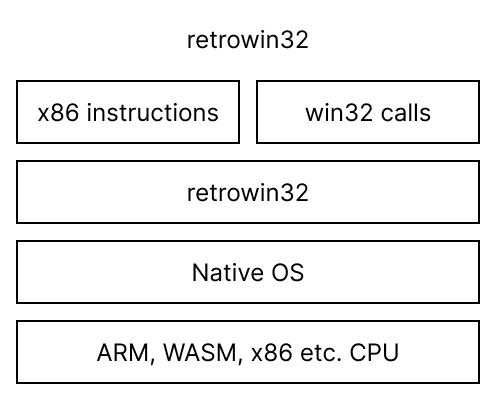
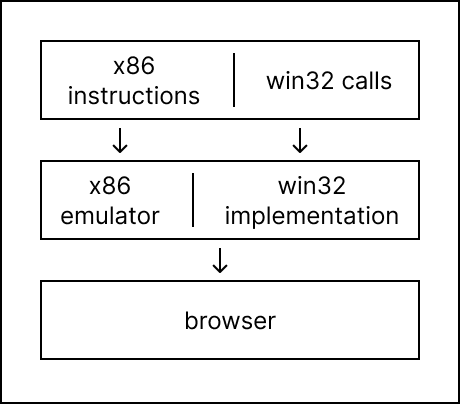
comparison: redo graphics, more text

Changed region(s): [[0.0, 0.0, 1.0, 1.0]]

diff --git a/doc/comparison.md b/doc/comparison.md
@@ -1,29 +1,53 @@
 # Comparison with similar systems
 
+To begin with, retrowin32 is relatively immature and cannot execute most
+programs.
+
+If you are just looking to Windows software, I recommend instead using:
+
+- on x86 hardware: [Wine](https://www.winehq.org/)
+- on non-x86 hardware: [qemu](https://www.qemu.org/)
+- in a browser: [v86](https://copy.sh/v86/) or
+  [Boxedwine](https://www.boxedwine.org/)
+
+## Architectural differences
+
 Executing a Windows .exe broadly
 [requires two components](https://neugierig.org/software/blog/2023/01/emulating-win32.html):
 executing x86 instructions and interpreting the Windows calls.
 
-To run it natively requires an x86 processor and the Windows OS:
+To run an exe natively requires both an x86 processor and the Windows OS:
 
-<img src='native.png' width='248' alt='Windows component stack'>
+<img src='native.png' width='230' alt='Windows component stack'>
 
 [Wine](https://www.winehq.org/) translates Windows calls onto a different OS,
 but still requires an x86 processor for the x86 instructions:
 
-<img src='wine.png' width='247' alt='WINE component stack'>
+<img src='wine.png' width='230' alt='wine component stack'>
 
-On non-x86 platforms you can pair Wine with a CPU emulator, as done in e.g.
-[Boxedwine](https://www.boxedwine.org/).
+On non-x86 platforms (including browsers),
+[Boxedwine](https://www.boxedwine.org/) combines Wine with a CPU emulator and
+implementation of the bits of Linux that Wine expects:
+
+<img src='boxedwine.png' width='230' alt='boxedwine component'>
 
 x86 emulators like [qemu](https://www.qemu.org/) and [v86](https://copy.sh/v86/)
-emulate an x86 processor, but at a level where it still requires you to run an
-OS within the emulator:
+emulate an x86 processor, but at a level where it still requires you to run the
+whole Windows OS within the emulator:
 
-<img src='qemu.png' width='248' alt='qemu component stack'>
+<img src='qemu.png' width='230' alt='qemu component stack'>
 
-This project, in contrast, aims to run a win32 executable directly, in a manner
-similar to how video game emulators work: by both emulating the executable and
-mapping its calls directly into local OS calls.
+Finally, retrowin32 aims to run a win32 executable directly, in a manner similar
+to how video game emulators work: by both emulating the executable and mapping
+its calls directly into local OS calls.
 
-<img src='retrowin32.png' width='248' alt='retrowin32 component stack'>
+<img src='retrowin32.png' width='230' alt='retrowin32 component stack'>
+
+Among the alternatives, retrowin32 is most similar to boxedwine. Note that while
+this drawing is visually shorter, it still encompasses most of the same
+complexity. The primary differences are:
+
+- the bulk of retrowin32's win32 implementation happens outside of the x86
+  emulator
+- by not using Wine, retrowin32's win32 implementation doesn't depend on any
+  Linux emulation, and can target the browser directly instead of SDL
